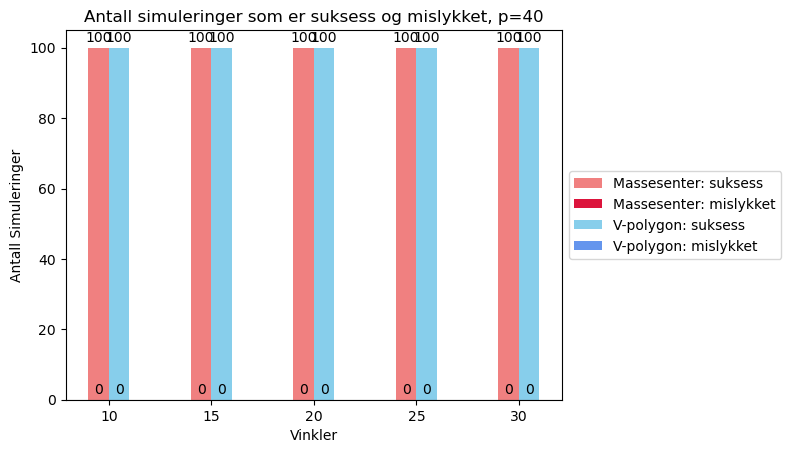
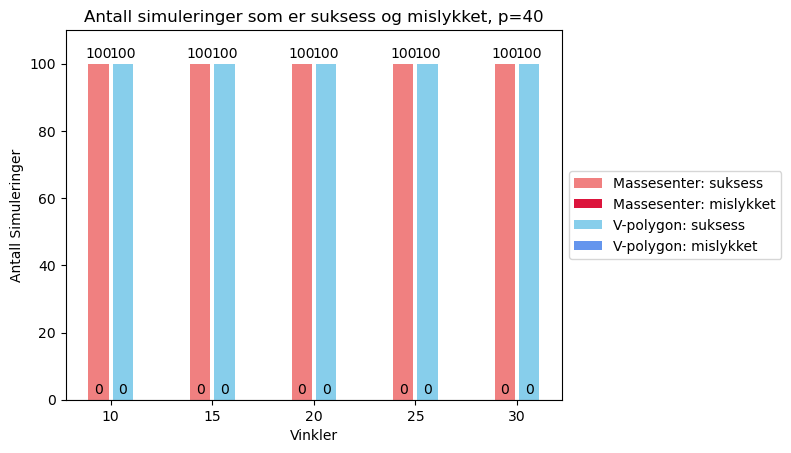
standardavvik lagt til. fikset mellomrom i suksessrate.

diff --git a/diagrams.py b/diagrams.py
@@ -3,10 +3,6 @@ import numpy as np
 import pandas as pd
 from constants import *
 
-# PERCEPTIONS = [20, 30, 40]
-# ANGLE = [10, 15, 20, 25, 30]
-# TESTTYPES = ["cooperative_flock", "divided_flock", "lone_sheep", "right_angle"]
-# OUR_DRONETYPES = ['v_polygon', 'com']
 
 def average_time_existing(dir_path, df_circle, df_v, df_polygon, perception):
     """Bar chart for average herd time from successful herding for all algorithms per test"""
@@ -125,9 +121,6 @@ def average_time_existing(dir_path, df_circle, df_v, df_polygon, perception):
     fig_time.savefig("{path}/gjetetid_{p}.png".format(path=dir_path, p=perception), bbox_inches='tight')
     plt.close(fig_time)
 
-    # prices.plot(kind = "barh", y = "mean", legend = False, title = "Average Prices", xerr = "std")
-
-
 
 def succsessrate_existing(dir_path, df_circle, df_v, df_polygon, perception):
     """Bar chart for successful and unsuccessful herding for all drone algorithms and every testtype"""
@@ -192,7 +185,8 @@ def succsessrate_existing(dir_path, df_circle, df_v, df_polygon, perception):
 
     fig.savefig("{path}/suksessrate_{p}.png".format(path=dir_path, p=perception), bbox_inches='tight')
     plt.close(fig)
-    
+
+
 def average_time_all(dir_path, df_circle, df_v, df_polygon, df_our, perception):
     """Bar chart for average herd time from successful herding for all algorithms per test"""
         
@@ -204,16 +198,24 @@ def average_time_all(dir_path, df_circle, df_v, df_polygon, df_our, perception):
     circle_time = []
     circle_collect_time = []
     circle_herd_time = []
+
+    df_circle_error = df_circle_success.groupby(['Testtype'], as_index=False).aggregate({'Gjetetid': 'std'}).round(2)
+    circle_error = []
+
     for testt in TESTTYPES:
         if (df_avg_time_circle['Testtype'] == testt).any():
             circle_row = df_avg_time_circle.loc[(df_avg_time_circle['Testtype'] == testt)]
             circle_time.append(circle_row['Gjetetid'].iloc[0])
             circle_collect_time.append(circle_row['Oppsamlingstid'].iloc[0])
             circle_herd_time.append(circle_row['Drivetid'].iloc[0])
+
+            error = df_circle_error.loc[(df_circle_error['Testtype'] == testt)]
+            circle_error.append(error['Gjetetid'].iloc[0])
         else:
             circle_time.append(0)
             circle_collect_time.append(0)
             circle_herd_time.append(0)
+            circle_error.append(0)
     
     # V
     df_v_success = df_v.loc[df_v['Suksessrate'] == 100]
@@ -224,16 +226,23 @@ def average_time_all(dir_path, df_circle, df_v, df_polygon, df_our, perception):
     v_collect_time = []
     v_herd_time = []
 
+    df_v_error = df_v_success.groupby(['Testtype'], as_index=False).aggregate({'Gjetetid': 'std'}).round(2)
+    v_error = []
+
     for testt in TESTTYPES:
         if (df_avg_time_v['Testtype'] == testt).any():
             v_row = df_avg_time_v.loc[(df_avg_time_v['Testtype'] == testt)]
             v_time.append(v_row['Gjetetid'].iloc[0])
             v_collect_time.append(v_row['Oppsamlingstid'].iloc[0])
             v_herd_time.append(v_row['Drivetid'].iloc[0])
+
+            error = df_v_error.loc[(df_v_error['Testtype'] == testt)]
+            v_error.append(error['Gjetetid'].iloc[0])
         else:
             v_time.append(0)
             v_collect_time.append(0)
             v_herd_time.append(0)
+            v_error.append(0)
 
 
     # Polygon
@@ -244,16 +253,24 @@ def average_time_all(dir_path, df_circle, df_v, df_polygon, df_our, perception):
     polygon_time = []
     polygon_collect_time = []
     polygon_herd_time = []
+
+    df_polygon_error = df_polygon_success.groupby(['Testtype'], as_index=False).aggregate({'Gjetetid': 'std'}).round(2)
+    polygon_error = []
+
     for testt in TESTTYPES:
         if (df_avg_time_polygon['Testtype'] == testt).any():
             polygon_row = df_avg_time_polygon.loc[(df_avg_time_polygon['Testtype'] == testt)]
             polygon_time.append(polygon_row['Gjetetid'].iloc[0])
             polygon_collect_time.append(polygon_row['Oppsamlingstid'].iloc[0])
             polygon_herd_time.append(polygon_row['Drivetid'].iloc[0])
+
+            error = df_polygon_error.loc[(df_polygon_error['Testtype'] == testt)]
+            polygon_error.append(error['Gjetetid'].iloc[0])
         else:
             polygon_time.append(0)
             polygon_collect_time.append(0)
             polygon_herd_time.append(0)
+            polygon_error.append(0)
 
     # Our
     df_our_success = df_our.loc[df_our['Suksessrate'] == 100]
@@ -264,16 +281,23 @@ def average_time_all(dir_path, df_circle, df_v, df_polygon, df_our, perception):
     our_collect_time = []
     our_herd_time = []
 
+    df_our_error = df_our_success.groupby(['Testtype'], as_index=False).aggregate({'Gjetetid': 'std'}).round(2)
+    our_error = []
+
     for testt in TESTTYPES:
         if (df_avg_time_our['Testtype'] == testt).any():
             our_row = df_avg_time_our.loc[(df_avg_time_our['Testtype'] == testt)]
             our_time.append(our_row['Gjetetid'].iloc[0])
             our_collect_time.append(our_row['Oppsamlingstid'].iloc[0])
             our_herd_time.append(our_row['Drivetid'].iloc[0])
+
+            error = df_our_error.loc[(df_our_error['Testtype'] == testt)]
+            our_error.append(error['Gjetetid'].iloc[0])
         else:
             our_time.append(0)
             our_collect_time.append(0)
             our_herd_time.append(0)
+            our_error.append(0)
     
     # Make figure
     N = 4
@@ -283,16 +307,16 @@ def average_time_all(dir_path, df_circle, df_v, df_polygon, df_our, perception):
     fig_time, ax_time = plt.subplots()
 
     circle_collect = ax_time.bar(ind-0.3, circle_collect_time, width, label='Sirkel: samletid = {}'.format(circle_collect_time), color='moccasin')
-    circle_herd = ax_time.bar(ind-0.3, circle_herd_time, width, bottom=circle_collect_time, label='Sirkel: drivetid = {}'.format(circle_herd_time), color='orange')
+    circle_herd = ax_time.bar(ind-0.3, circle_herd_time, width, yerr=circle_error, bottom=circle_collect_time, label='Sirkel: drivetid = {}'.format(circle_herd_time), color='orange')
 
     v_collect = ax_time.bar(ind-0.1, v_collect_time, width, label='V: samletid = {}'.format(v_collect_time), color='lightgreen')
-    v_herd = ax_time.bar(ind-0.1, v_herd_time, width, bottom=v_collect_time, label='V: drivetid = {}'.format(v_herd_time), color='seagreen')
+    v_herd = ax_time.bar(ind-0.1, v_herd_time, width, yerr=v_error, bottom=v_collect_time, label='V: drivetid = {}'.format(v_herd_time), color='seagreen')
 
     polygon_collect = ax_time.bar(ind+0.1, polygon_collect_time, width, label='Polygon: samletid = {}'.format(polygon_collect_time), color='mediumpurple')
-    polygon_herd = ax_time.bar(ind+0.1, polygon_herd_time, width, bottom=polygon_collect_time, label='Polygon: drivetid = {}'.format(polygon_herd_time), color='rebeccapurple')
+    polygon_herd = ax_time.bar(ind+0.1, polygon_herd_time, width, yerr=polygon_error, bottom=polygon_collect_time, label='Polygon: drivetid = {}'.format(polygon_herd_time), color='rebeccapurple')
     
     our_collect = ax_time.bar(ind+0.3, our_collect_time, width, label='Massesenter: samletid = {}'.format(our_collect_time), color='lightcoral')
-    our_herd = ax_time.bar(ind+0.3, our_herd_time, width, bottom=our_collect_time, label='Massesenter: drivetid = {}'.format(our_herd_time), color='crimson')
+    our_herd = ax_time.bar(ind+0.3, our_herd_time, width, yerr=our_error, bottom=our_collect_time, label='Massesenter: drivetid = {}'.format(our_herd_time), color='crimson')
 
     ax_time.bar_label(circle_herd, circle_time, rotation=90, padding=5)
     ax_time.bar_label(v_herd, v_time, rotation=90, padding=5)
@@ -312,6 +336,7 @@ def average_time_all(dir_path, df_circle, df_v, df_polygon, df_our, perception):
     fig_time.savefig("{path}/gjetetid_{p}_all.png".format(path=dir_path, p=perception), bbox_inches='tight')
     plt.close(fig_time)
     return
+
 
 def successrate_all(dir_path, df_circle, df_v, df_polygon, df_our, perception):
     """Bar chart for successful and unsuccessful herding for all drone algorithms and every testtype"""
@@ -355,17 +380,17 @@ def successrate_all(dir_path, df_circle, df_v, df_polygon, df_our, perception):
     
     fig, ax = plt.subplots()
 
-    circle_1 = ax.bar(ind-0.3, circle_success, width, label='Sirkel: suksess', color='moccasin')
-    circle_2 = ax.bar(ind-0.3, circle_failure, width, label='Sirkel: mislykket', color='orange')
+    circle_1 = ax.bar(ind-0.35, circle_success, width, label='Sirkel: suksess', color='moccasin')
+    circle_2 = ax.bar(ind-0.35, circle_failure, width, label='Sirkel: mislykket', color='orange')
 
-    v_1 = ax.bar(ind-0.1, v_success, width, label='V: suksess', color='lightgreen')
-    v_2 = ax.bar(ind-0.1, v_failure, width, label='V: mislykket', color='seagreen')
+    v_1 = ax.bar(ind-0.12, v_success, width, label='V: suksess', color='lightgreen')
+    v_2 = ax.bar(ind-0.12, v_failure, width, label='V: mislykket', color='seagreen')
 
-    polygon_1 = ax.bar(ind+0.1, polygon_success, width, label='Polygon: suksess', color='mediumpurple')
-    polygon_2 = ax.bar(ind+0.1, polygon_failure, width, label='Polygon: mislykket', color='rebeccapurple')
+    polygon_1 = ax.bar(ind+0.12, polygon_success, width, label='Polygon: suksess', color='mediumpurple')
+    polygon_2 = ax.bar(ind+0.12, polygon_failure, width, label='Polygon: mislykket', color='rebeccapurple')
 
-    our_1 = ax.bar(ind+0.3, our_success, width, label='Massesenter: suksess', color='lightcoral')
-    our_2 = ax.bar(ind+0.3, our_failure, width, label='Massesenter: mislykket', color='crimson')
+    our_1 = ax.bar(ind+0.35, our_success, width, label='Massesenter: suksess', color='lightcoral')
+    our_2 = ax.bar(ind+0.35, our_failure, width, label='Massesenter: mislykket', color='crimson')
 
     ax.bar_label(circle_1, padding=2)
     ax.bar_label(circle_2, padding=2)
@@ -390,6 +415,7 @@ def successrate_all(dir_path, df_circle, df_v, df_polygon, df_our, perception):
     fig.savefig("{path}/suksessrate_{p}_all.png".format(path=dir_path, p=perception), bbox_inches='tight')
     plt.close(fig)
     return
+
 
 def lineplot_our(dir_path, df_com, df_polygon, perception):
     """Lineplot for average herd time from successful herding per test"""
@@ -453,6 +479,7 @@ def lineplot_our(dir_path, df_com, df_polygon, perception):
         plt.savefig('{path}/gjetetid_{t}{p}.png'.format(path=dir_path, t=type, p=perception), bbox_inches='tight')
         plt.close()
 
+
 def avg_time_our(dir_path, df_com, df_polygon, perception):
     """Bar chart for herd time"""
     df_com_success = df_com.loc[df_com['Suksessrate'] == 100]
@@ -475,6 +502,11 @@ def avg_time_our(dir_path, df_com, df_polygon, perception):
         com_collect_time = []
         com_herd_time = []
 
+        df_polygon_error = df_polygon_success.groupby(['Testtype'], as_index=False).aggregate({'Gjetetid': 'std'}).round(2)
+        df_com_error = df_com_success.groupby(['Testtype'], as_index=False).aggregate({'Gjetetid': 'std'}).round(2)
+        polygon_error = []
+        com_error = []
+
         N = len(ANGLES)
         ind = np.arange(N)
         width = 0.20
@@ -487,10 +519,14 @@ def avg_time_our(dir_path, df_com, df_polygon, perception):
                         polygon_time.append(p_row['Gjetetid'].iloc[0])
                         polygon_collect_time.append(p_row['Oppsamlingstid'].iloc[0])
                         polygon_herd_time.append(p_row['Drivetid'].iloc[0])
+                        
+                        error = df_polygon_error.loc[(df_polygon_error['Testtype'] == type)]
+                        polygon_error.append(error['Gjetetid'].iloc[0])
                     else:
                         polygon_time.append(0)
                         polygon_collect_time.append(0)
                         polygon_herd_time.append(0)
+                        polygon_error.append(0)
                     
                 if drone == "com":
                     if ((df_avg_time_com['Testtype'] == type) & (df_avg_time_com['Vinkel'] == a)).any():
@@ -498,16 +534,20 @@ def avg_time_our(dir_path, df_com, df_polygon, perception):
                         com_time.append(f_row['Gjetetid'].iloc[0])
                         com_collect_time.append(f_row['Oppsamlingstid'].iloc[0])
                         com_herd_time.append(f_row['Drivetid'].iloc[0])
+
+                        error = df_com_error.loc[(df_com_error['Testtype'] == type)]
+                        com_error.append(error['Gjetetid'].iloc[0])
                     else:
                         com_time.append(0)
                         com_collect_time.append(0)
                         com_herd_time.append(0)
+                        com_error.append(0)
 
         com_collect = ax_time.bar(ind-0.1, com_collect_time, width, label='Massesenter: samletid = {}'.format(com_collect_time), color='lightcoral')
-        com_herd = ax_time.bar(ind-0.1, com_herd_time, width, bottom=com_collect_time, label='Massesenter: drivetid = {}'.format(com_herd_time), color='crimson')
+        com_herd = ax_time.bar(ind-0.1, com_herd_time, width, yerr=com_error, bottom=com_collect_time, label='Massesenter: drivetid = {}'.format(com_herd_time), color='crimson')
 
         polygon_collect = ax_time.bar(ind+0.1, polygon_collect_time, width, label='V-polygon: samletid = {}'.format(polygon_collect_time), color='skyblue')
-        polygon_herd = ax_time.bar(ind+0.1, polygon_herd_time, width, bottom=polygon_collect_time, label='V-polygon: drivetid = {}'.format(polygon_herd_time), color='cornflowerblue')
+        polygon_herd = ax_time.bar(ind+0.1, polygon_herd_time, width, yerr=polygon_error, bottom=polygon_collect_time, label='V-polygon: drivetid = {}'.format(polygon_herd_time), color='cornflowerblue')
 
         ax_time.bar_label(com_herd, com_time, rotation=90, padding=5)
         ax_time.bar_label(polygon_herd, polygon_time, rotation=90, padding=5)
@@ -528,7 +568,7 @@ def avg_time_our(dir_path, df_com, df_polygon, perception):
 
 def successrate_our(dir_path, df_com, df_polygon, perception):
     """Bar chart for successful and unsuccessful herding for all drone algorithms and every testtype"""
-    for type in TESTTYPES:  
+    for type in TESTTYPES:
         f_success = 0
         f_failure = 0
         polygon_success = 0
@@ -558,13 +598,14 @@ def successrate_our(dir_path, df_com, df_polygon, perception):
         # Make figure
         fig, ax = plt.subplots()
 
-        com_1 = ax.bar(ind-0.1, f_success, width, label='Massesenter: suksess', color='lightcoral')
-        com_2 = ax.bar(ind-0.1, f_failure, width, label='Massesenter: mislykket', color='crimson')
+        com_1 = ax.bar(ind-0.12, f_success, width, label='Massesenter: suksess', color='lightcoral')
+        com_2 = ax.bar(ind-0.12, f_failure, width, label='Massesenter: mislykket', color='crimson')
 
-        polygon_1 = ax.bar(ind+0.1, polygon_success, width, label='V-polygon: suksess', color='skyblue')
-        polygon_2 = ax.bar(ind+0.1, polygon_failure, width, label='V-polygon: mislykket', color='cornflowerblue')
+        polygon_1 = ax.bar(ind+0.12, polygon_success, width, label='V-polygon: suksess', color='skyblue')
+        polygon_2 = ax.bar(ind+0.12, polygon_failure, width, label='V-polygon: mislykket', color='cornflowerblue')
 
 
+        ax.margins(y=0.1)
         ax.bar_label(com_1, padding=2)
         ax.bar_label(com_2, padding=2)
         ax.bar_label(polygon_1, padding=2)
@@ -584,28 +625,31 @@ def successrate_our(dir_path, df_com, df_polygon, perception):
 
 
 def main():
-    dir_path = "./final/our"
+    
     angle = 20
 
-    # for perception in PERCEPTIONS:
-    #     df_circle = pd.read_csv('{path}/circle_{p}.csv'.format(path=dir_path, p=perception))
-    #     df_v = pd.read_csv('{path}/v_{p}.csv'.format(path=dir_path, p=perception))
-    #     df_polygon = pd.read_csv('{path}/polygon_{p}.csv'.format(path=dir_path, p=perception))
-    #     df_our = pd.read_csv('{path}/our_{p}_{a}.csv'.format(path=dir_path, p=perception, a=angle))
+    for perception in PERCEPTIONS:
+        dir_path = "./final"
 
-    #     average_time_existing(dir_path, df_circle, df_v, df_polygon, perception)
-    #     succsessrate_existing(dir_path, df_circle, df_v, df_polygon, perception)
-    #     average_time_all(dir_path, df_circle, df_v, df_polygon, df_our, perception)
-    #     successrate_all(dir_path, df_circle, df_v, df_polygon, df_our, perception)
-    
+        df_circle = pd.read_csv('{path}/circle_{p}.csv'.format(path=dir_path, p=perception))
+        df_v = pd.read_csv('{path}/v_{p}.csv'.format(path=dir_path, p=perception))
+        df_polygon = pd.read_csv('{path}/polygon_{p}.csv'.format(path=dir_path, p=perception))
+        df_our = pd.read_csv('{path}/our_{p}_{a}.csv'.format(path=dir_path, p=perception, a=angle))
 
-    perception = 20
+        average_time_existing(dir_path, df_circle, df_v, df_polygon, perception)
+        succsessrate_existing(dir_path, df_circle, df_v, df_polygon, perception)
+        average_time_all(dir_path, df_circle, df_v, df_polygon, df_our, perception)
+        successrate_all(dir_path, df_circle, df_v, df_polygon, df_our, perception)
 
-    df_com = pd.read_csv('{}/com_{}.csv'.format(dir_path, perception))
-    df_v_polygon = pd.read_csv('{}/v_polygon_{}.csv'.format(dir_path, perception))
-    avg_time_our(dir_path, df_com, df_v_polygon, perception)
-    successrate_our(dir_path, df_com, df_v_polygon, perception)
-    lineplot_our(dir_path, df_com, df_v_polygon, perception)
+
+        dir_path = "./final/our"
+
+        df_com = pd.read_csv('{}/com_{}.csv'.format(dir_path, perception))
+        df_v_polygon = pd.read_csv('{}/v_polygon_{}.csv'.format(dir_path, perception))
+        avg_time_our(dir_path, df_com, df_v_polygon, perception)
+        successrate_our(dir_path, df_com, df_v_polygon, perception)
+        lineplot_our(dir_path, df_com, df_v_polygon, perception)
+
 
 if __name__ == "__main__":
     main()
